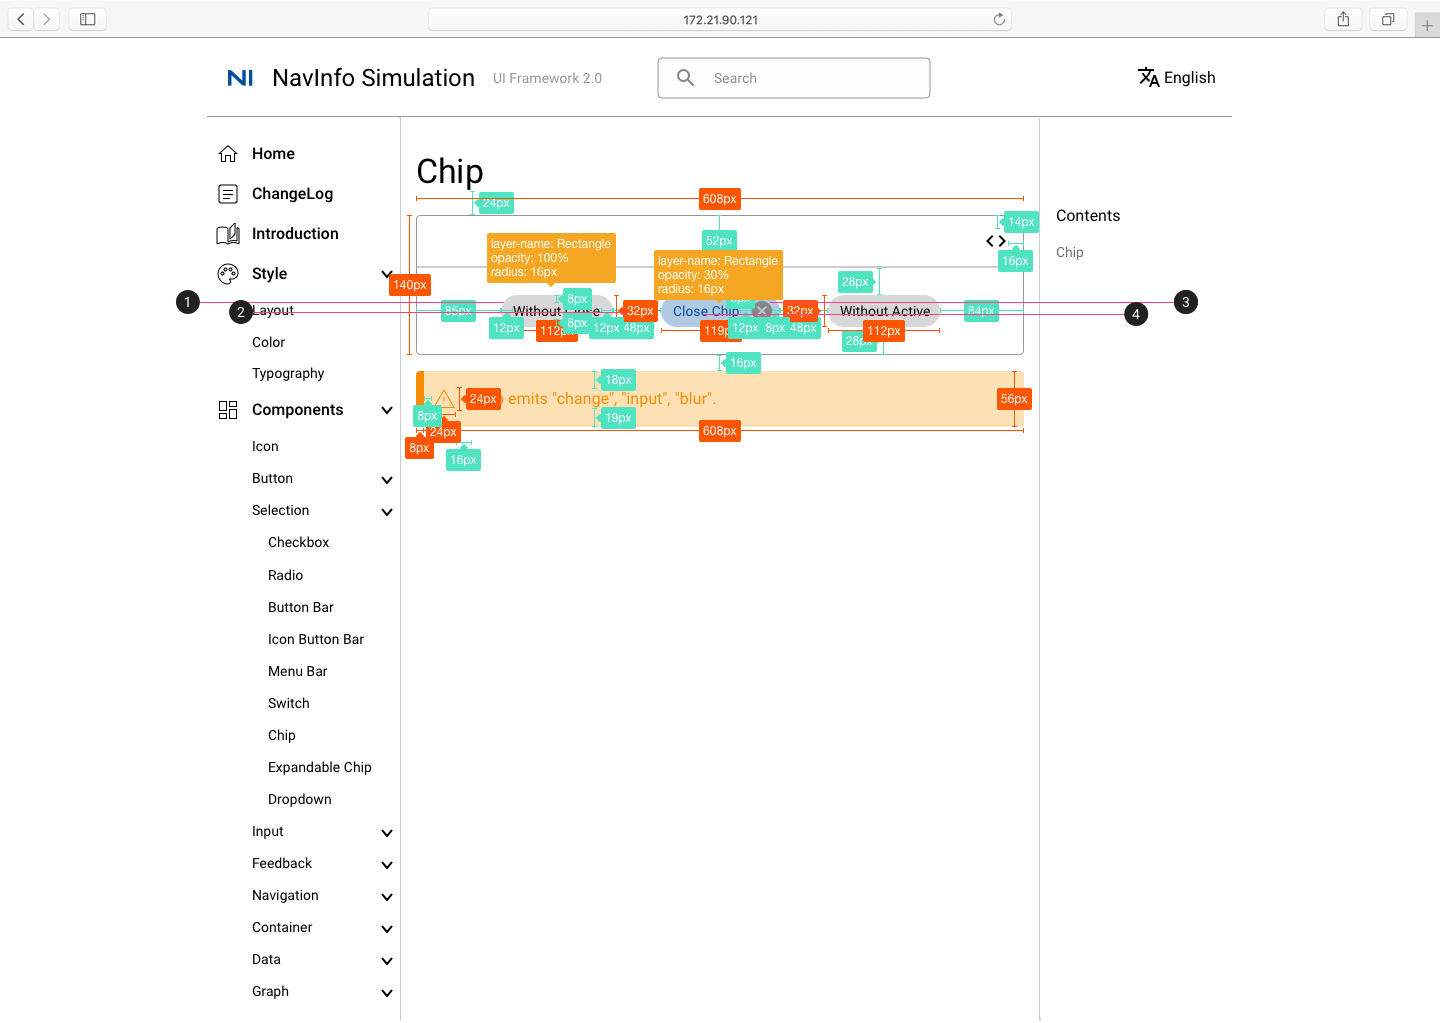
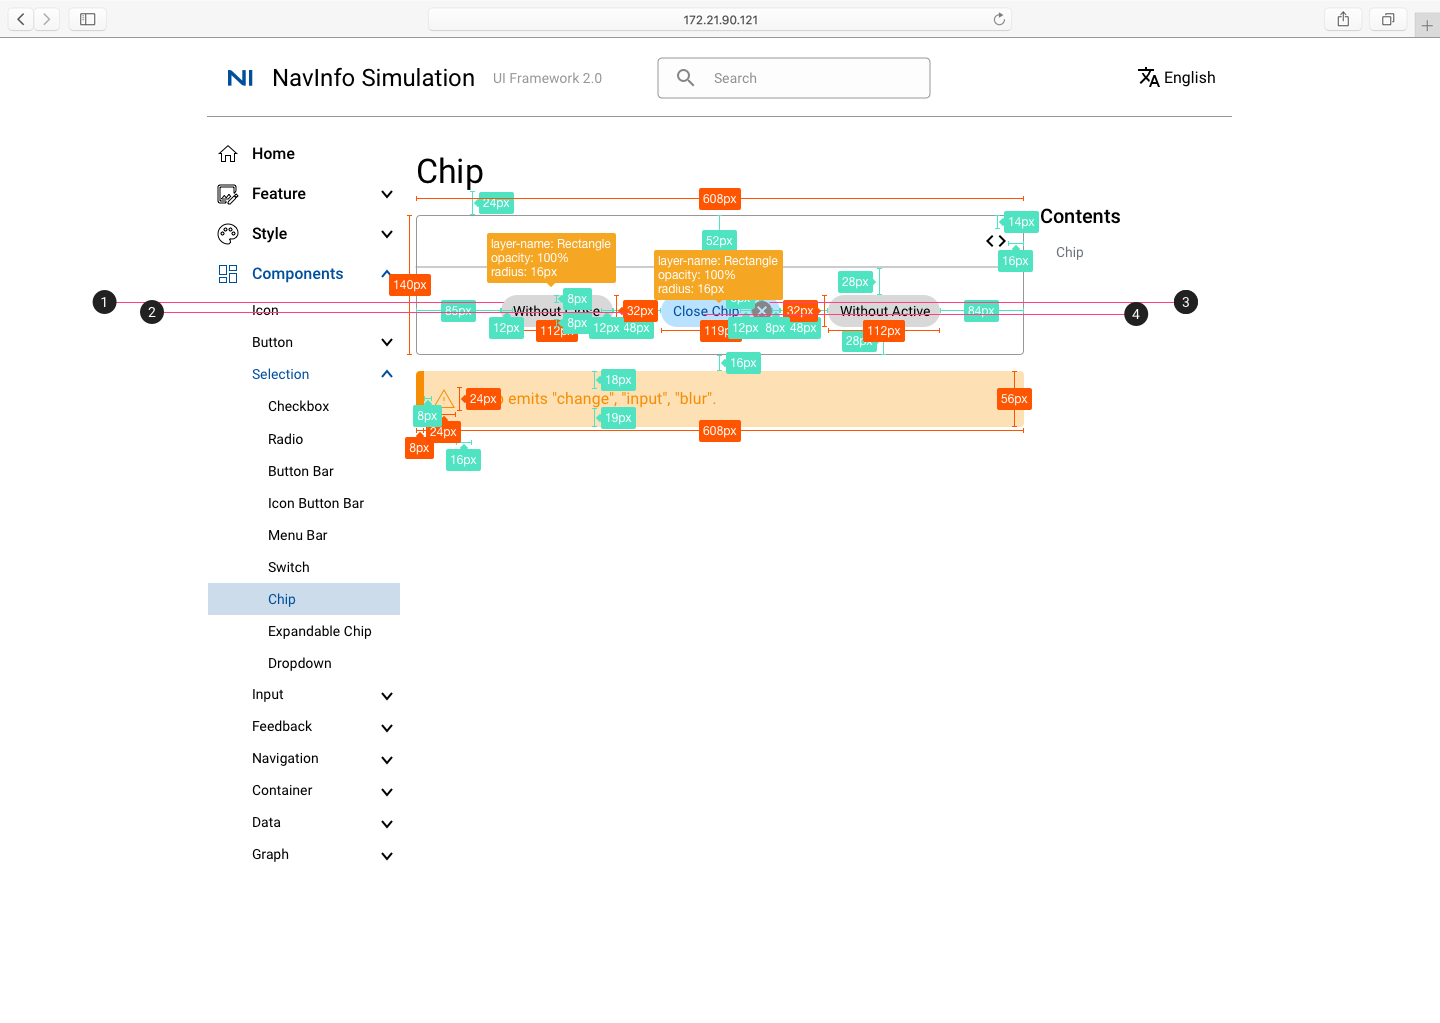
1.取消左右侧导航目录边分割线。2.左侧导航栏内容更改。3.右侧目录栏content字体变更，content-subtitle缩进。4. 新增Feedback模块需求

diff --git a/docs/ns_ui_framework/layout.md b/docs/ns_ui_framework/layout.md
@@ -1,19 +1,35 @@
-# UI Framework 产品页面需求
+# Layout 布局
 
-## 页面布局
+## UI Framework Layout
 
-![UI Framework页面](../imgs/ns_ui_framework/Layout.png)
+![UI Framework Layout](../imgs_ui_framework/Layout.png)
+
+1. 一级标题下的二级标题被选中时，一级标题图标及字体均变为主色 #004F9D
+2. 二级标题选中状态：图标和文字全部变为 primary color #004F9D,  矩形框填充色也为注册，透明度20%
+3. 字体：body 2
+
+### UI Framework 页面排布
+
+![UI Framework页面](../imgs/ns_ui_framework/UI_Layout.png)
 
 1. 页面居中显示内容宽为1024px
 2. 两侧留白为208px（当页面宽幅为1440px时）
 3. 两侧菜单栏宽均为192px，左侧显示一级标题，二级标题...，右侧菜单栏显示最末级标题下的子标题
 4. 中间内容显示宽为608px，并与两侧菜单栏相距16px
 
-## 布局内容
+### UI Framework 目录
 
-![UI Framework页面布局](../imgs/ns_ui_framework/Content.png)
+#### UI Framework 一级目录
 
-1. NI图标：64px*64px
+![UI Framework 一级目录](../imgs/ns_ui_framework/UI_Content1.png)
+
+1. 一级标题字体：Roboto Medium 16px
+
+#### UI Framework 二级目录及右侧页面目录
+
+![UI Framework二级目录及右侧页面目录](../imgs/ns_ui_framework/UI_Content2.png)
+
+1. NI图标：64px * 64px
 2. NavInfo Simulation：Heading 5， 紧靠NI图标
 3. UI Framwork2.0：Roboto  Regular 14px #979797
 4. English: Body1, 翻译图标右侧紧靠English
@@ -25,7 +41,9 @@
 10. 目录一级标题：Body 1
 11. 目录二级标题：Body 2 #6D7278
 
-## 响应式布局
+### UI Framework 响应式布局
 
-![UI Framework Responsive Layout Grid](../imgs/ns_ui_framework/Layout-Responsive_Layout_Grid.png)
+![UI Framework Responsive Layout Grid](../imgs/ns_ui_framework/UI_Layout-Responsive_Layout_Grid.png)
 10 column（每个column 88px）， gutter（16px），margin（0）
+
+## NS Layout

diff --git a/docs/ns_ui_framework/component/feedback/tooltip.md b/docs/ns_ui_framework/component/feedback/tooltip.md
@@ -1,0 +1,15 @@
+# Tooltip
+
+![UI Framework Feedback - Tooltip](../imgs/ns_ui_framework/feedback/Tooltip.png)
+
+1. 填充色：primary color #004F9D； 字体：Button #FFFFFF
+
+![UI Framework Feedback - Tooltip - Left Tooltip](../imgs/ns_ui_framework/feedback/Tooltip-Left_tooltip.png)
+
+1. 鼠标悬停在LEFT按钮上，左侧出现提示框，提示框填充色：#868686， 字体Left Tooltip：body 2
+
+![UI Framework Feedback - Tooltip - Right Tooltip](../imgs/ns_ui_framework/feedback/Tooltip-Right_tooltip.png)
+
+![UI Framework Feedback - Tooltip - Top Tooltip](../imgs/ns_ui_framework/feedback/Tooltip-Top_tooltip.png)
+
+![UI Framework Feedback - Tooltip - Bottom Tooltip](../imgs/ns_ui_framework/feedback/Tooltip-Bottom_tooltip.png)

diff --git a/docs/product_team/weekly_report/tianzizhu/tzz_2020-10.md b/docs/product_team/weekly_report/tianzizhu/tzz_2020-10.md
@@ -1,1 +1,27 @@
 # 10月 - 田子竹
+
+## 第42周
+
+### 本周实现
+
+1. 设计UI Framework响应式布局。['100%']
+2. 设计UI Framework Typography, Color, Icon, Button 页面['100%']
+3. 绘制 NI Simulation Front End，Back End 流程图。['100%']
+
+### 下周计划
+
+1. 设计UI Framework Selection 页面及组件
+2. 设计UI Framework Feedback 页面及组件
+3. 与开发对接并跟进UI Framework
+
+## 第43周
+
+### 本周实现
+
+1. 设计UI Framework Selection 页面及组件['100%']
+2. 设计UI Framework Feedback 页面及组件['25%']
+
+### 下周计划
+
+1. 设计UI Framework Feedback 页面及组件
+2. 设计仿真测试平台的scenario test和 endurance test 监控功能。

diff --git a/docs/ns_ui_framework/component/feedback/notification.md b/docs/ns_ui_framework/component/feedback/notification.md
@@ -1,0 +1,17 @@
+# Notification
+
+![UI Framework Notification](..imgs/ns_ui_framework/feedback/Notification.png)
+
+1. 填充色：primary color #004F9D； 字体：Button #FFFFFF
+
+![UI Framework Notification - Success](..imgs/ns_ui_framework/feedback/Notification-Success.png)
+
+1. 填充色：#4CAF50，字体：Body 2 #FFFFFF
+
+![UI Framework Notification - Information](..imgs/ns_ui_framework/feedback/Notification-Information.png)
+
+1. 填充色：#009FFF，字体：Body 2 #FFFFFF
+
+![UI Framework Notification - Warning](..imgs/ns_ui_framework/feedback/Notification-Warning.png)
+
+1. 填充色：#FB3437，字体：Body 2 #FFFFFF

diff --git a/docs/ns_ui_framework/component/feedback/loading.md b/docs/ns_ui_framework/component/feedback/loading.md
@@ -1,0 +1,14 @@
+# Loading
+
+![UI Framework Loading](..imgs/ns_ui_framework/feedback/Loading.png)
+
+1. 填充色：primary color #004F9D； 字体：Button #FFFFFF
+
+![UI Framework Loading 3s](..imgs/ns_ui_framework/feedback/Loading-3s.png)
+
+1. 原始按钮变灰，中心有加载符号转动
+2. 进度条框位于页面中心，显示时间3s，填充色：primary color #004F9D； 字体：Button #FFFFFF
+
+![UI Framework Loading Infinite](..imgs/ns_ui_framework/feedback/Loading-Infinite.png)
+
+1. 进度条框位于页面中心，显示时间无限，填充色：primary color #004F9D； 字体：Button #FFFFFF

diff --git a/docs/ns_ui_framework/component/selection/menu_bar.md b/docs/ns_ui_framework/component/selection/menu_bar.md
@@ -1,0 +1,15 @@
+# Menu Bar
+
+![UI Framework Selection - Menu Bar1](../imgs/ns_ui_framework/selection/Menu_Bar1.png)
+
+1. 填充颜色：#868686
+2. 字体：Body 1 #FFFFFF
+
+![UI Framework Selection - Menu Bar2](../imgs/ns_ui_framework/selection/Menu_Bar2.png)
+
+1. 点击FILE，出现选项框，选项框内字体：Body 2
+
+![UI Framework Selection - Menu Bar3](../imgs/ns_ui_framework/selection/Menu_Bar3.png)
+
+1. 点击VIEW，出现选项框，选项框内字体：Body 2
+

diff --git a/docs/ns_ui_framework/component/selection/dropdown.md b/docs/ns_ui_framework/component/selection/dropdown.md
@@ -1,0 +1,16 @@
+## Dropdown
+
+![UI Framework Selection - Dropdown](../imgs/ns_ui_framework/selection/Dropdown.png)
+
+1. 字体：Body 2
+
+### Dropdown Basic
+
+![UI Framework Selection - Dropdown - Dropdown Basic](../imgs/ns_ui_framework/selection/Dropdown-Dropdown_Basic.png)
+
+1. 字体：Body 2
+
+![UI Framework Selection - Dropdown - Dropdown Modified](../imgs/ns_ui_framework/selection/Dropdown-Dropdown_Modified.png)
+
+1. 字体：Body 2
+2. 字体：Body 2 #868686

diff --git a/docs/ns_ui_framework/component/selection/chip.md b/docs/ns_ui_framework/component/selection/chip.md
@@ -1,0 +1,13 @@
+# Chip
+
+![UI Framework Selection - Chip1](../imgs/ns_ui_framework/selection/Chip1.png)
+
+1. 圆角矩形颜色：#868686
+2. 字体：Body 2
+3. 圆角矩形颜色：#BAE2FF
+4. 字体：Body 2 #004F9D
+
+![UI Framework Selection - Chip2](../imgs/ns_ui_framework/selection/Chip2.png)
+
+点击close按钮后，原chip消失，剩余chip居中
+

diff --git a/docs/ns_ui_framework/component/feedback/dialog.md b/docs/ns_ui_framework/component/feedback/dialog.md
@@ -1,0 +1,11 @@
+# Dialog
+
+![UI Framework Dialog](..imgs/ns_ui_framework/feedback/Dialog.png)
+
+1. 填充色：primary color #004F9D； 字体：Button #FFFFFF
+
+![UI Framework Dialog Messagebox](..imgs/ns_ui_framework/feedback/Dialog_Messagebox.png)
+
+1. 字体：Heading 5
+2. 字体：Body 2
+3. 字体：Button，颜色 #004F9D

diff --git a/docs/ns_ui_framework/component/feedback/alert.md b/docs/ns_ui_framework/component/feedback/alert.md
@@ -1,0 +1,8 @@
+# Alert
+
+![UI Framework Alert](..imgs/ns_ui_framework/feedback/Alert.png)
+
+1. Information填充色：#009FFF； 字体：Body2 #FFFFFF
+2. Warning填充色：#FBB74F；； 字体：Body2 #FFFFFF
+3. Error填充色：#FB3437；字体：Body 2 #FFFFFF
+4. Success填充色：#4CAF50；字体：Body 2 #FFFFFF

diff --git a/docs/ns_ui_framework/component/selection/expanable_chip.md b/docs/ns_ui_framework/component/selection/expanable_chip.md
@@ -1,0 +1,10 @@
+# Expandable Chip
+
+![UI Framework Selection - Expandable Chip1](../imgs/ns_ui_framework/selection/Expandable_Chip1.png)
+
+1. Clip Title: 字体Body 2
+
+![UI Framework Selection - Expandable Chip2](../imgs/ns_ui_framework/selection/Expandable_Chip2.png)
+
+1. 点击Clip Title 显示内容：字体Body 2
+

diff --git a/docs/ns_ui_framework/component/selection/switch.md b/docs/ns_ui_framework/component/selection/switch.md
@@ -1,0 +1,9 @@
+# Switch
+
+![UI Framework Selection - Switch](../imgs/ns_ui_framework/selection/Switch.png)
+
+1. Switch 组件，蓝色为开，灰色为关
+2. 字体：Body 1
+3. 圆角矩形颜色：#FDE0B3
+4. 右侧矩形颜色：#F68D05
+
